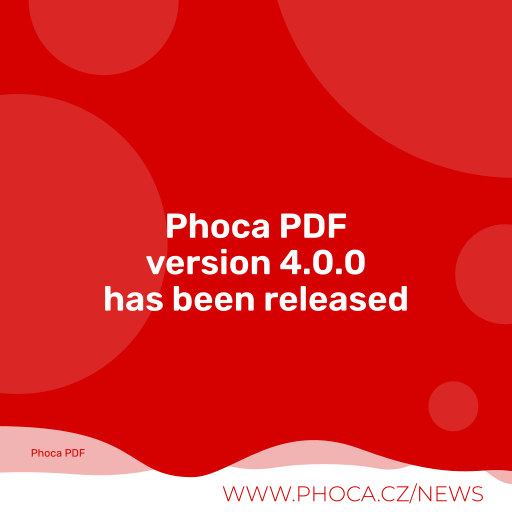
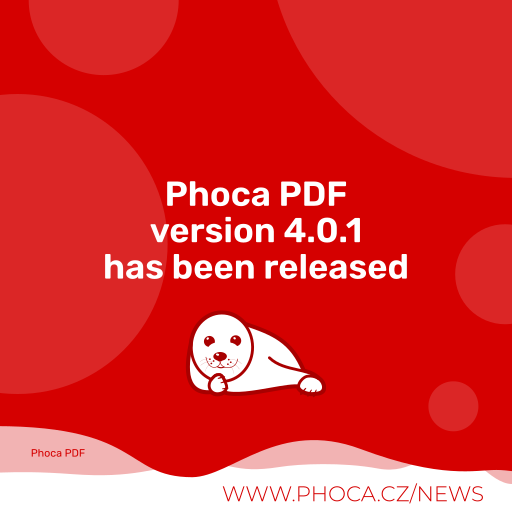
4.0.1

Changed region(s): [[0.1875, 0.3438, 0.8125, 0.7812]]

diff --git a/script.php b/script.php
@@ -76,7 +76,74 @@ class com_phocapdfInstallerScript
 		//$parent->getParent()->setRedirectURL('index.php?option=com_phocapdf');
         return true;
 	}
-	function uninstall($parent) {}
+	function uninstall($parent) {
+
+		// Folders created by Phoca PDF
+		$errFile	= array();
+		$sccFile	= array();
+		$msgError	= '';
+		$msgSuccess	= '';
+
+		$folder	= JPATH_ROOT. '/libraries/src/Document/Renderer/Pdf';
+
+		$file1  = JPATH_ROOT. '/libraries/src/Document/PdfDocument.php';
+		$file2 	= JPATH_ROOT. '/components/com_content/src/View/Article/PdfView.php';
+
+		$success 	= '<span style="font-weight: bold;color:#00cc00;">'.Text::_('COM_PHOCAPDF_SUCCESS').'</span> - ';
+		$error 		= '<span style="font-weight: bold;color:#ff0000;">'.Text::_('COM_PHOCAPDF_ERROR').'</span> - ';
+		jimport( 'joomla.client.helper' );
+		jimport( 'joomla.filesystem.file' );
+		jimport( 'joomla.filesystem.folder' );
+
+		if(!Folder::delete($folder)) {
+			$errFile[]	= $error . Text::_( 'COM_PHOCAPDF_REMOVING_FOLDER' ). ': '
+			. '<br />&nbsp;&nbsp; - ' . str_replace( JPATH_ROOT . '/', '', $folder)
+				.'<br />&nbsp;&nbsp; - '. Text::_( 'COM_PHOCAPDF_ERROR_FOLDER_REMOVING' );
+		} else {
+			$sccFile[]	= $success . Text::_( 'COM_PHOCAPDF_REMOVING_FOLDER' ). ': '
+			. '<br />&nbsp;&nbsp; - ' . str_replace( JPATH_ROOT . '/', '', $folder)
+			.'<br />&nbsp;&nbsp; - '. Text::_( 'COM_PHOCAPDF_FOLDER_REMOVED' );
+		}
+
+		if(!File::delete($file1)) {
+			$errFile[]	= $error . Text::_( 'COM_PHOCAPDF_REMOVING_FILE' ). ': '
+			. '<br />&nbsp;&nbsp; - ' . str_replace( JPATH_ROOT . '/', '', $file1)
+			.'<br />&nbsp;&nbsp; - '. Text::_( 'COM_PHOCAPDF_ERROR_FILE_REMOVING' );
+		} else {
+			$sccFile[]	= $success . Text::_( 'COM_PHOCAPDF_REMOVING_FILE' ). ': '
+			. '<br />&nbsp;&nbsp; - ' . str_replace( JPATH_ROOT . '/', '', $file1)
+				.'<br />&nbsp;&nbsp; - '. Text::_( 'COM_PHOCAPDF_FILE_REMOVED' );
+		}
+
+		if(!File::delete($file2)) {
+			$errFile[]	= $error . Text::_( 'COM_PHOCAPDF_REMOVING_FILE' ). ': '
+			. '<br />&nbsp;&nbsp; - ' . str_replace( JPATH_ROOT . '/', '', $file2)
+			.'<br />&nbsp;&nbsp; - '. Text::_( 'COM_PHOCAPDF_ERROR_FILE_REMOVING' );
+		} else {
+			$sccFile[]	= $success . Text::_( 'COM_PHOCAPDF_REMOVING_FILE' ). ': '
+			. '<br />&nbsp;&nbsp; - ' . str_replace( JPATH_ROOT . '/', '', $file2)
+			.'<br />&nbsp;&nbsp; - '. Text::_( 'COM_PHOCAPDF_FILE_REMOVED' );
+		}
+
+		if (!empty($sccFile)) {
+			$msgSuccess .= '<br />' . implode("<br />", $sccFile);
+		}
+
+		if (!empty($errFile)) {
+			$msgError .= '<br />' . implode("<br />", $errFile);
+		}
+
+
+		// End Message
+		if ($msgError != '') {
+			$msg = '<span style="font-weight: bold;color:#ff0000;">'.Text::_('COM_PHOCAPDF_ERROR_UPGRADE').'</span>: ' . $msgSuccess . $msgError;
+			Factory::getApplication()->enqueueMessage($msg, 'error');
+		} else {
+			$msg = '<span style="font-weight: bold;color:#00cc00;">'.Text::_('COM_PHOCAPDF_SUCCESS_UPGRADE').'</span>: ' . $msgSuccess;
+			$msg .= Text::_('COM_PHOCAPDF_INSTALLATION_NOT_COMPLETE');
+			Factory::getApplication()->enqueueMessage($msg, 'message');
+		}
+	}
 
 	function update($parent) {
 

diff --git a/admin/assets/tcpdf/include/barcodes/qrcode.php b/admin/assets/tcpdf/include/barcodes/qrcode.php
@@ -888,11 +888,13 @@ class QRcode {
 			if ($col >= $this->rsblocks[0]['dataLength']) {
 				$row += $this->b1;
 			}
-			$ret = $this->rsblocks[$row]['data'][$col];
+
+			$ret = $this->rsblocks[$row]['data'][(int)$col];
+
 		} elseif ($this->count < $this->dataLength + $this->eccLength) {
 			$row = ($this->count - $this->dataLength) % $this->blocks;
 			$col = ($this->count - $this->dataLength) / $this->blocks;
-			$ret = $this->rsblocks[$row]['ecc'][$col];
+			$ret = $this->rsblocks[$row]['ecc'][(int)$col];
 		} else {
 			return 0;
 		}

diff --git a/admin/assets/tcpdf/include/tcpdf_static.php b/admin/assets/tcpdf/include/tcpdf_static.php
@@ -319,7 +319,7 @@ class TCPDF_STATIC {
 	 */
 	public static function _escapeXML($str) {
 		$replaceTable = array("\0" => '', '&' => '&amp;', '<' => '&lt;', '>' => '&gt;');
-		$str = strtr($str, $replaceTable);
+		$str = strtr((string)$str, $replaceTable);
 		return $str;
 	}
 
@@ -2146,7 +2146,7 @@ class TCPDF_STATIC {
 	 * Array of page formats
 	 * measures are calculated in this way: (inches * 72) or (millimeters * 72 / 25.4)
 	 * @public static
-	 * 
+	 *
      * @var array<string,float[]>
 	 */
 	public static $page_formats = array(

diff --git a/admin/helpers/phocapdfcontenttcpdf.php b/admin/helpers/phocapdfcontenttcpdf.php
@@ -148,7 +148,7 @@ class PhocaPDFContentTCPDF extends TCPDF
 			$isHTML = false;
 			if ($params['footer_data'] != '') {
 				//$params['footer_data'] = str_replace(utf8_encode("<p>�</p>"), '<p></p>', $params['footer_data']);
-				$params['footer_data'] = str_replace(array(utf8_encode(chr(11)), utf8_encode(chr(160))), ' ', $params['footer_data']);
+				//$params['footer_data'] = str_replace(array(utf8_encode(chr(11)), utf8_encode(chr(160))), ' ', $params['footer_data']);
 				$isHTML = true;
 			}
 

diff --git a/admin/assets/tcpdf/tcpdf.php b/admin/assets/tcpdf/tcpdf.php
@@ -7358,7 +7358,7 @@ class TCPDF {
 						$color = imagecolorat($img, $xpx, $ypx);
 						// get and correct gamma color
 						$alpha = $this->getGDgamma($img, $color);
-						imagesetpixel($imgalpha, $xpx, $ypx, $alpha);
+						imagesetpixel($imgalpha, (int)$xpx, (int)$ypx, (int)$alpha);
 					}
 				}
 				imagepng($imgalpha, $tempfile_alpha);

diff --git a/README.MD b/README.MD
@@ -65,7 +65,7 @@ Phoca PDF is Joomla! CMS component. It helps to set and create PDF documents in 
 
 ## Version (Joomla! 4.x)
 
-4.0.0
+4.0.1
 
 
 
